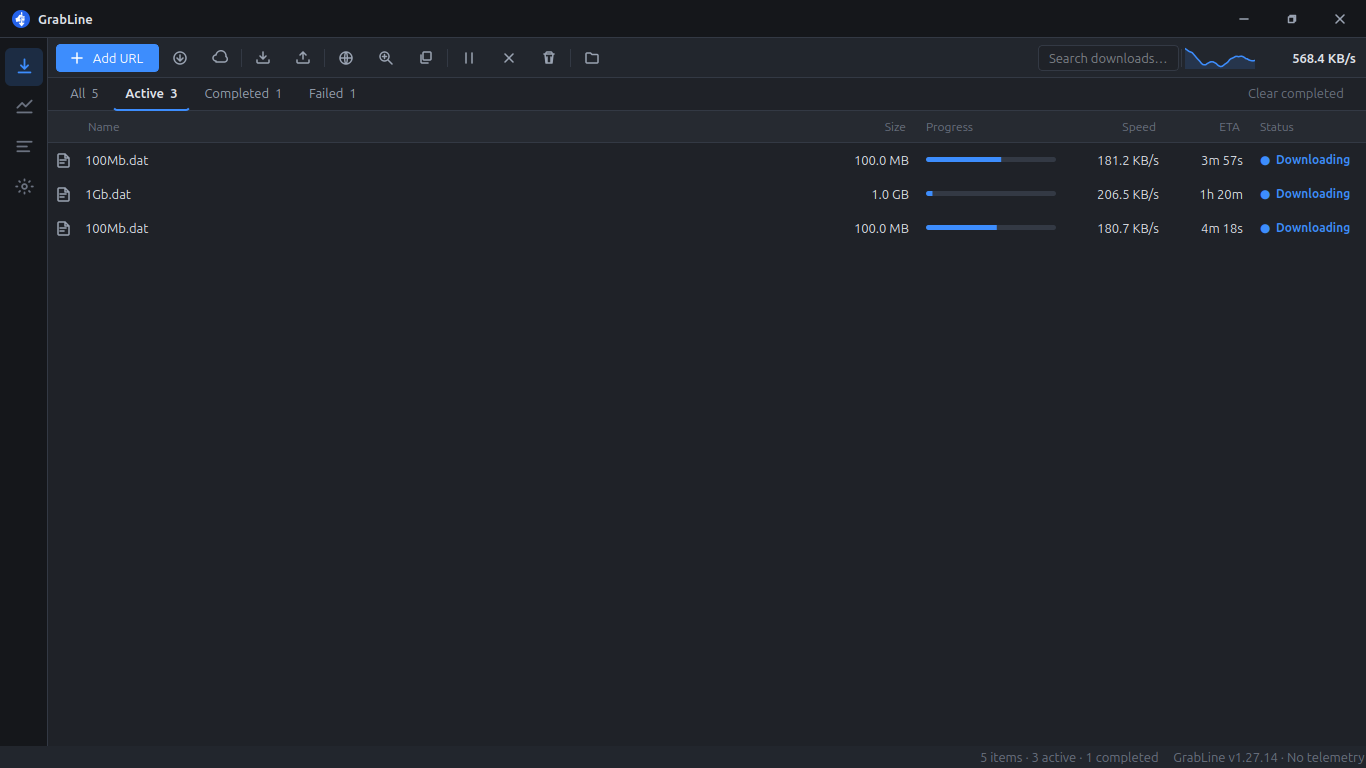
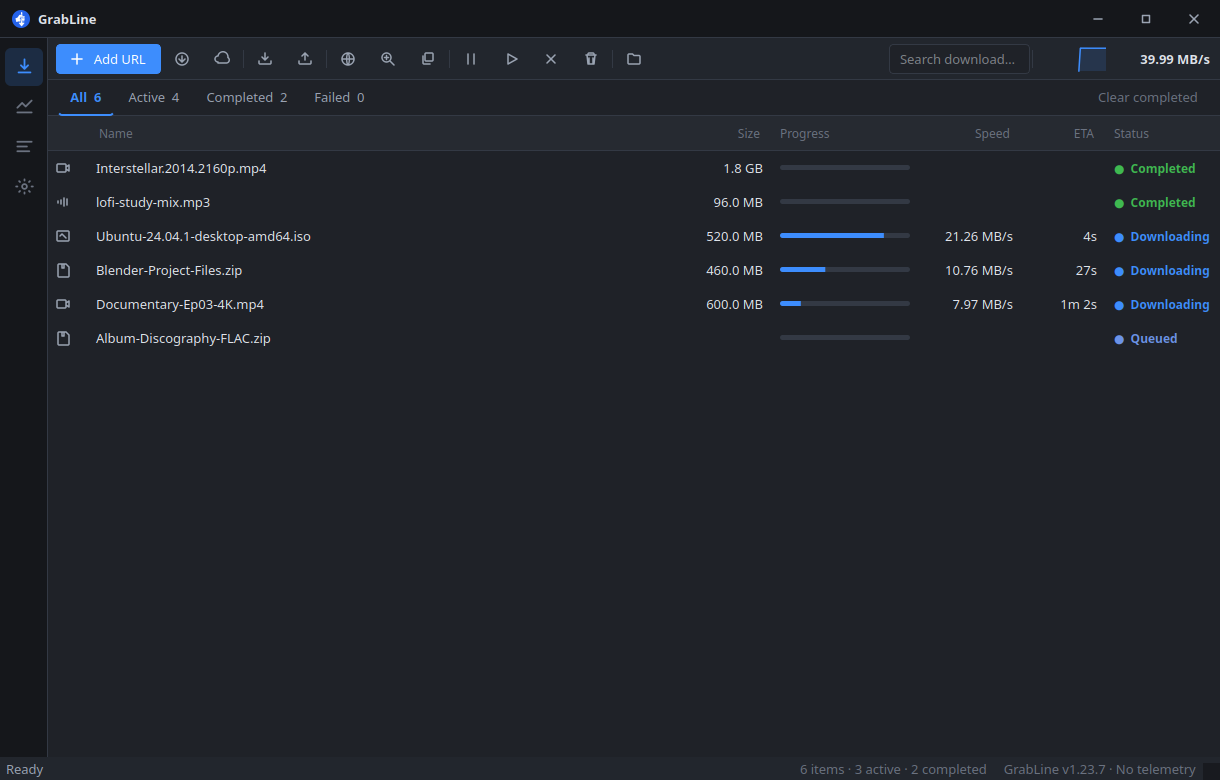
Simplify the detail drawer and restore the queue screenshot
Drop the Activity tab and redundant footer actions, fold session
stats into Overview, and put the previous main-window shot back on
the site and README while keeping the live dashboard capture.

diff --git a/website/index.html b/website/index.html
@@ -710,10 +710,10 @@
             </div>
             <figure class="hero-frame">
               <img
-                src="assets/shot-queue.png?v=7"
-                width="1366"
-                height="768"
-                alt="GrabLine main window with active downloads and live speeds"
+                src="assets/shot-queue.png?v=8"
+                width="1220"
+                height="780"
+                alt="GrabLine downloads window with live speeds"
                 fetchpriority="high"
               />
             </figure>

diff --git a/app/ui/detail_drawer.py b/app/ui/detail_drawer.py
@@ -2,12 +2,17 @@
 when a single download is selected.
 
 It is a persistent header (icon, name, status, progress) over a tab strip -
-Overview / Details / Media (or Contents) / Activity - and a fixed action bar.
+Overview / Details / Media (or Contents / Peers) - and a compact action bar.
 Tabs that don't apply to the selection are hidden, so a PDF shows two and a
-video shows four. Widgets are built once; only their text and visibility change
+video shows three. Widgets are built once; only their text and visibility change
 as the selection or live progress updates, so nothing flickers. The expensive
 reads (the full Job row, timestamps, an ffprobe of a media file, an archive's
 entry list) happen only when the selection changes, never on the 0.5s tick.
+
+Repeated facts live in one place: Overview holds live or session summary,
+Details holds file path and source, Media holds codec metadata. Actions that
+already exist on the row context menu (redownload, copy URL/path/hash) stay
+off the footer - Open, Folder, Rename, and Remove are enough here.
 """
 
 from __future__ import annotations
@@ -80,11 +85,10 @@ _CAPTIONS = (
     N_("ETA"),
     N_("Downloaded"),
     N_("Remaining"),
-    N_("Progress"),
-    N_("Size"),
-    N_("Type"),
     N_("Finished"),
+    N_("Elapsed"),
     N_("Retries"),
+    N_("Type"),
     N_("Size on disk"),
     N_("Location"),
     N_("Added"),
@@ -96,7 +100,7 @@ _CAPTIONS = (
     N_("Segments"),
     N_("Priority"),
     N_("Queue"),
-    N_("Category"),
+    N_("Speed limit"),
     N_("Resolution"),
     N_("Duration"),
     N_("FPS"),
@@ -112,12 +116,8 @@ _CAPTIONS = (
     N_("Up speed"),
     N_("Uploaded"),
     N_("Ratio"),
-    N_("Elapsed"),
-    N_("Speed limit"),
     N_("File"),
     N_("Source"),
-    N_("History"),
-    N_("Statistics"),
 )
 
 
@@ -223,10 +223,6 @@ class DetailDrawer(QFrame):
         ffmpeg: str | None,
         on_open_file: Callable[[JobView], None],
         on_open_folder: Callable[[JobView], None],
-        on_redownload: Callable[[JobView], None],
-        on_copy_url: Callable[[JobView], None],
-        on_copy_path: Callable[[JobView], None],
-        on_copy_hash: Callable[[JobView], None],
         on_rename: Callable[[JobView], None],
         on_remove: Callable[[JobView], None],
         on_extract: Callable[[JobView], None],
@@ -247,10 +243,6 @@ class DetailDrawer(QFrame):
         self._on = {
             "open": on_open_file,
             "folder": on_open_folder,
-            "redownload": on_redownload,
-            "copy_url": on_copy_url,
-            "copy_path": on_copy_path,
-            "copy_hash": on_copy_hash,
             "rename": on_rename,
             "remove": on_remove,
             "extract": on_extract,
@@ -330,7 +322,10 @@ class DetailDrawer(QFrame):
         self._tab_group = QButtonGroup(self)
         self._tab_group.setExclusive(True)
         self._tabs: list[QPushButton] = []
-        tab_labels = (N_("Overview"), N_("Details"), N_("Media"), N_("Activity"))
+        # Media is kind-adaptive (Media / Contents / Peers); Activity was folded
+        # into Overview so finished downloads aren't a thin fourth page of
+        # timestamps that Details already shows.
+        tab_labels = (N_("Overview"), N_("Details"), N_("Media"))
         for index, label in enumerate(tab_labels):
             btn = QPushButton(t(label))
             btn.setCheckable(True)
@@ -374,10 +369,8 @@ class DetailDrawer(QFrame):
                 "ETA",
                 "Downloaded",
                 "Remaining",
-                "Progress",
-                "Size",
-                "Type",
                 "Finished",
+                "Elapsed",
                 "Retries",
             )
         )
@@ -398,7 +391,13 @@ class DetailDrawer(QFrame):
         olay.addWidget(self._spark_card)
         self._ov_error = self._long_block(olay, N_("Error"))
         self._ov_notes = self._long_block(olay, N_("Notes"))
+        self._tags_box = QWidget()
+        self._tags_layout = QHBoxLayout(self._tags_box)
+        self._tags_layout.setContentsMargins(0, 0, 0, 0)
+        self._tags_layout.setSpacing(4)
+        olay.addWidget(self._tags_box)
         self._security_btn = QPushButton(t("Security check…"))
+        self._security_btn.setProperty("flat", "true")
         self._security_btn.setCursor(Qt.CursorShape.PointingHandCursor)
         self._security_btn.clicked.connect(lambda: self._fire("security"))
         olay.addWidget(self._security_btn)
@@ -407,7 +406,7 @@ class DetailDrawer(QFrame):
 
         # -- Details ---------------------------------------------------------
         det, dlay = self._scroll_page()
-        self._file_grid = _StatGrid(("Type", "Size on disk", "Location", "Added", "Finished"))
+        self._file_grid = _StatGrid(("Type", "Size on disk", "Location", "Added"))
         self._group(dlay, "File", self._file_grid)
         self._source_grid = _StatGrid(
             (
@@ -419,7 +418,7 @@ class DetailDrawer(QFrame):
                 "Segments",
                 "Priority",
                 "Queue",
-                "Category",
+                "Speed limit",
             )
         )
         self._group(dlay, "Source", self._source_grid)
@@ -427,7 +426,7 @@ class DetailDrawer(QFrame):
         dlay.addStretch(1)
         self._pages.addWidget(det)
 
-        # -- Media / Contents ------------------------------------------------
+        # -- Media / Contents / Peers ----------------------------------------
         med, mlay = self._scroll_page()
         self._media_title = components.role_label(
             t("MEDIA"), "caption", size=design.FONT["caption"]
@@ -470,20 +469,6 @@ class DetailDrawer(QFrame):
         mlay.addStretch(1)
         self._pages.addWidget(med)
 
-        # -- Activity --------------------------------------------------------
-        act, alay = self._scroll_page()
-        self._history_grid = _StatGrid(("Added", "Finished", "Elapsed"))
-        self._group(alay, "History", self._history_grid)
-        self._stats_grid = _StatGrid(("Average", "Peak", "Retries", "Connections", "Speed limit"))
-        self._group(alay, "Statistics", self._stats_grid)
-        self._tags_box = QWidget()
-        self._tags_layout = QHBoxLayout(self._tags_box)
-        self._tags_layout.setContentsMargins(0, 6, 0, 0)
-        self._tags_layout.setSpacing(4)
-        alay.addWidget(self._tags_box)
-        alay.addStretch(1)
-        self._pages.addWidget(act)
-
         return self._pages
 
     def _long_block(self, layout: QVBoxLayout, caption: str) -> QLabel:
@@ -510,13 +495,11 @@ class DetailDrawer(QFrame):
         grid.setContentsMargins(10, 8, 10, 8)
         grid.setHorizontalSpacing(6)
         grid.setVerticalSpacing(6)
+        # Essentials only. Redownload / copy URL / path / hash live on the
+        # table's right-click menu so the drawer stays a short action strip.
         specs = (
             ("open", "open", t("Open"), t("Open the file"), False),
             ("folder", "folder", t("Folder"), t("Open the containing folder"), False),
-            ("redownload", "duplicate", t("Redownload"), t("Download this again"), False),
-            ("copy_url", "copy", t("Copy URL"), t("Copy the download URL"), False),
-            ("copy_path", "note", t("Copy path"), t("Copy the file path"), False),
-            ("copy_hash", "shield", t("Copy hash"), t("Copy the SHA-256 checksum"), False),
             ("rename", "rename", t("Rename"), t("Rename the file"), False),
             ("remove", "trash", t("Remove"), t("Remove from the list (file stays on disk)"), True),
         )
@@ -585,16 +568,14 @@ class DetailDrawer(QFrame):
         self._name.setText(view.display_name)
 
         path = Path(view.dest_dir) / view.filename
-        created, updated = self._times
-        finished = _fmt_datetime(updated) if view.status is JobStatus.COMPLETED else ""
+        created, _updated = self._times
 
-        # Details -> File
+        # Details -> File (identity + path; finished time lives on Overview)
         self._file_grid.clear()
         self._file_grid.set("Type", _type_label(view.filename))
         self._file_grid.set("Size on disk", self._disk_size(path))
         self._file_grid.set("Location", _wrappable(view.dest_dir))
         self._file_grid.set("Added", _fmt_datetime(created))
-        self._file_grid.set("Finished", finished)
 
         # Details -> Source
         self._source_grid.clear()
@@ -612,23 +593,13 @@ class DetailDrawer(QFrame):
         self._source_grid.set("Segments", self._segment_count(view))
         self._source_grid.set("Priority", self._priority_label())
         self._source_grid.set("Queue", self._queue_name(view.queue_id))
-        self._source_grid.set("Category", self._category(view))
+        if view.speed_limit_kbps:
+            self._source_grid.set("Speed limit", f"{view.speed_limit_kbps} KB/s")
         self._det_url.setText(_wrappable(view.url))
         url_box = self._det_url.parentWidget()
         if url_box is not None:
             url_box.setVisible(bool(view.url))
 
-        # Activity -> History + Statistics
-        self._history_grid.clear()
-        self._history_grid.set("Added", _fmt_datetime(created))
-        self._history_grid.set("Finished", finished)
-        self._history_grid.set("Elapsed", _elapsed(created, updated) if finished else "")
-        self._stats_grid.clear()
-        self._stats_grid.set("Retries", str(view.retry_count) if view.retry_count else "")
-        if view.kind is not JobKind.TORRENT:
-            self._stats_grid.set("Connections", str(self.manager.connections))
-        if view.speed_limit_kbps:
-            self._stats_grid.set("Speed limit", f"{view.speed_limit_kbps} KB/s")
         self._rebuild_tags(view)
 
     def _update_progress(self, view: JobView) -> None:
@@ -656,6 +627,7 @@ class DetailDrawer(QFrame):
 
     def _update_overview(self, view: JobView, speed_bps: float, new: bool) -> None:
         downloading = view.status is JobStatus.DOWNLOADING
+        created, updated = self._times
         self._spark_card.setVisible(downloading)
         if downloading and not new:
             self._spark.push(speed_bps)
@@ -668,6 +640,7 @@ class DetailDrawer(QFrame):
             self._spark_val.setText(motion.fmt_speed(speed_bps))
             self._overview.set("Speed", motion.fmt_speed(speed_bps))
             self._overview.set("Average", motion.fmt_speed(average) if average > 0 else "")
+            self._overview.set("Peak", motion.fmt_speed(peak) if peak > 0 else "")
             eta = ""
             if speed_bps > 1 and view.total_size:
                 eta = motion.fmt_eta((view.total_size - view.downloaded) / speed_bps)
@@ -677,21 +650,17 @@ class DetailDrawer(QFrame):
                 self._overview.set(
                     "Remaining", human_bytes(max(0, view.total_size - view.downloaded))
                 )
-                self._overview.set("Progress", f"{int(view.downloaded / view.total_size * 100)}%")
         else:
-            if view.total_size:
-                self._overview.set("Size", human_bytes(view.total_size))
-            self._overview.set("Type", _type_label(view.filename))
+            # Header already shows size + percent; Overview covers timing and
+            # the session speeds that Details does not.
             if view.status is JobStatus.COMPLETED:
-                self._overview.set("Finished", _fmt_datetime(self._times[1]))
-            if peak > 0:
+                self._overview.set("Finished", _fmt_datetime(updated))
+                self._overview.set("Elapsed", _elapsed(created, updated))
+            if average > 0:
                 self._overview.set("Average", motion.fmt_speed(average))
+            if peak > 0:
                 self._overview.set("Peak", motion.fmt_speed(peak))
             self._overview.set("Retries", str(view.retry_count) if view.retry_count else "")
-
-        # Activity statistics mirror the live average/peak.
-        self._stats_grid.set("Average", motion.fmt_speed(average) if average > 0 else "")
-        self._stats_grid.set("Peak", motion.fmt_speed(peak) if peak > 0 else "")
 
         self._ov_error.setText(view.error or "")
         err_box = self._ov_error.parentWidget()
@@ -708,7 +677,6 @@ class DetailDrawer(QFrame):
         path = Path(view.dest_dir) / view.filename
         done = view.status is JobStatus.COMPLETED and path.exists()
         self._act_btns["open"].setEnabled(done)
-        self._act_btns["copy_hash"].setEnabled(done)
         self._act_btns["rename"].setEnabled(path.exists())
 
     # ------------------------------------------------- third tab: media/peers
@@ -847,22 +815,6 @@ class DetailDrawer(QFrame):
         if self._job is None or self._job.priority == 0:
             return "Normal"
         return "High" if self._job.priority > 0 else "Low"
-
-    def _category(self, view: JobView) -> str:
-        if not self.manager.settings.categories_enabled:
-            return ""
-        folder = Path(view.dest_dir).name
-        known = {
-            "Video",
-            "Music",
-            "Images",
-            "Documents",
-            "Archives",
-            "Programs",
-            "Games",
-            "Torrents",
-        }
-        return folder if folder in known else ""
 
     def _rebuild_tags(self, view: JobView) -> None:
         while self._tags_layout.count():

diff --git a/app/ui/main_window.py b/app/ui/main_window.py
@@ -323,10 +323,6 @@ class MainWindow(QMainWindow):
             ffmpeg=find_ffmpeg(self.settings),
             on_open_file=self._open_view_file,
             on_open_folder=self._open_view_folder,
-            on_redownload=lambda v: self.begin_add_url(v.url, allow_duplicate=True),
-            on_copy_url=self._copy_view_url,
-            on_copy_path=self._copy_view_path,
-            on_copy_hash=lambda v: self._copy_hash(Path(v.dest_dir) / v.filename),
             on_rename=self._rename_view,
             on_remove=self._remove_from_drawer,
             on_extract=lambda v: self._extract(Path(v.dest_dir) / v.filename),
@@ -1828,7 +1824,11 @@ class MainWindow(QMainWindow):
         open_file = menu.addAction(t("Open file"))
         open_file.setEnabled(view.status is JobStatus.COMPLETED and file_path.exists())
         open_folder = menu.addAction(t("Open folder"))
+        rename_file = menu.addAction(t("Rename…"))
+        rename_file.setEnabled(file_path.exists())
         copy_url = menu.addAction(t("Copy URL"))
+        copy_path = menu.addAction(t("Copy path"))
+        copy_path.setEnabled(file_path.exists())
         copy_magnet = menu.addAction(t("Copy magnet link"))
         copy_magnet.setVisible(view.kind is JobKind.TORRENT)
         redownload = menu.addAction(t("Download again"))
@@ -1922,10 +1922,12 @@ class MainWindow(QMainWindow):
         elif chosen is open_folder:
             if not reveal.open_folder(file_path):
                 self.statusBar().showMessage(t("Could not open the folder"), 3000)
+        elif chosen is rename_file:
+            self._rename_view(view)
         elif chosen is copy_url:
-            if self.clipboard_suppressor is not None:
-                self.clipboard_suppressor(view.url)  # don't offer our own copy back
-            QGuiApplication.clipboard().setText(view.url)
+            self._copy_view_url(view)
+        elif chosen is copy_path:
+            self._copy_view_path(view)
         elif chosen is copy_magnet:
             self._copy_magnet(view)
         elif chosen is redownload:

diff --git a/app/tests/test_ui_smoke.py b/app/tests/test_ui_smoke.py
@@ -1353,10 +1353,6 @@ def _drawer(manager: DownloadManager, ffmpeg: str | None = None) -> DetailDrawer
         ffmpeg=ffmpeg,
         on_open_file=noop,
         on_open_folder=noop,
-        on_redownload=noop,
-        on_copy_url=noop,
-        on_copy_path=noop,
-        on_copy_hash=noop,
         on_rename=noop,
         on_remove=noop,
         on_extract=noop,
@@ -1403,12 +1399,15 @@ def test_detail_drawer_populates_real_fields(db: Database, tmp_path: Path):
 
         assert cell("_file_grid", "Type") == "BIN file"
         assert cell("_file_grid", "Size on disk") == "4.0 KB"
+        assert cell("_file_grid", "Added")  # a formatted timestamp
         assert cell("_source_grid", "Server") == "files.example.com"
         assert cell("_source_grid", "Protocol") == "HTTPS"
         assert cell("_source_grid", "Connections") == str(manager.connections)
-        assert cell("_history_grid", "Added")  # a formatted timestamp
         # No ffmpeg and not an archive -> the third tab is hidden.
         assert drawer._tabs[2].isHidden()
+        # Activity was folded into Overview; footer is the short action strip.
+        assert set(drawer._act_btns) == {"open", "folder", "rename", "remove"}
+        assert len(drawer._tabs) == 3
     finally:
         manager.shutdown()
 

diff --git a/README.md b/README.md
@@ -15,7 +15,7 @@ Splits each transfer across parallel connections, resumes after an interruption,
 
 **[Download][releases]** · **[Website](https://gr33nops.github.io/Grabline/)** · **[Firefox add on][amo]** · [Install guide](docs/install.md)
 
-<img src="docs/screenshots/queue.png" width="900" alt="GrabLine main window with three active downloads and live speeds" />
+<img src="docs/screenshots/queue.png" width="860" alt="GrabLine downloads window with live speeds" />
 
 </div>
 